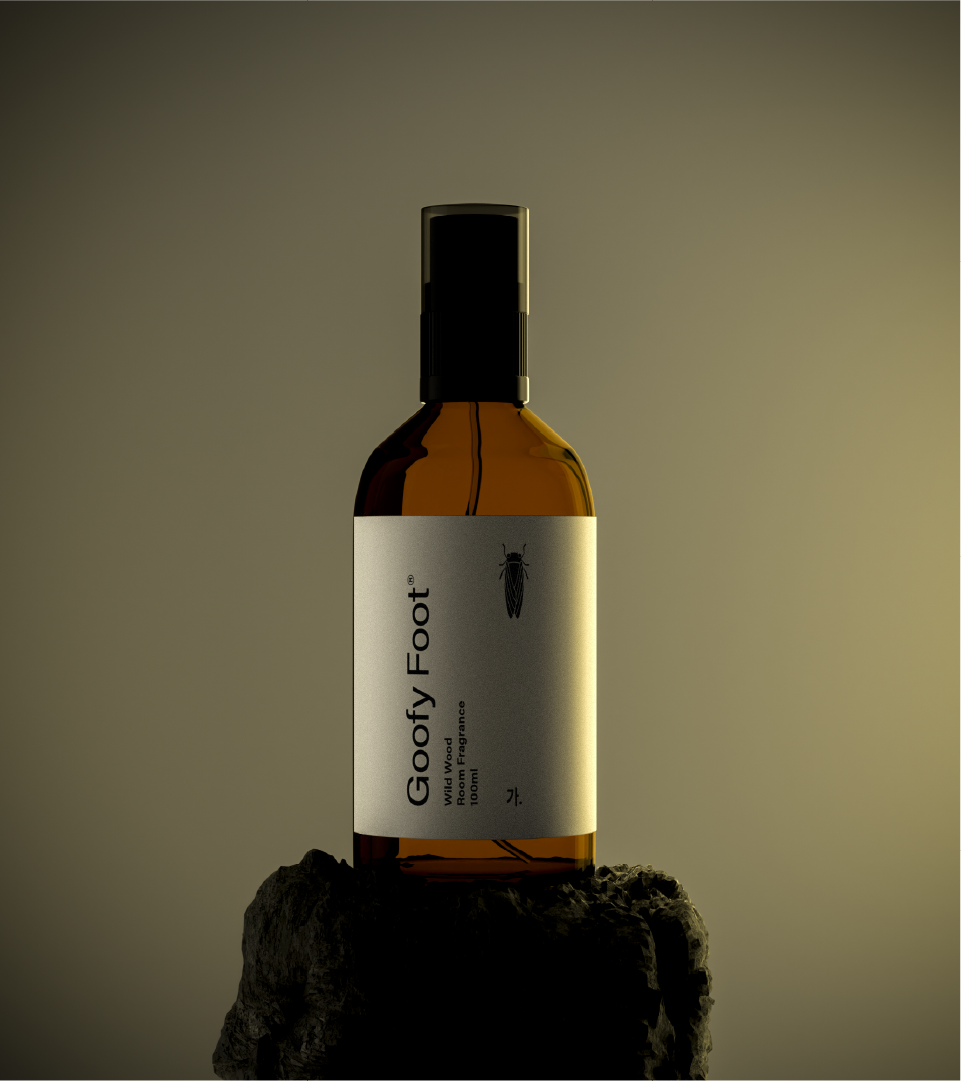
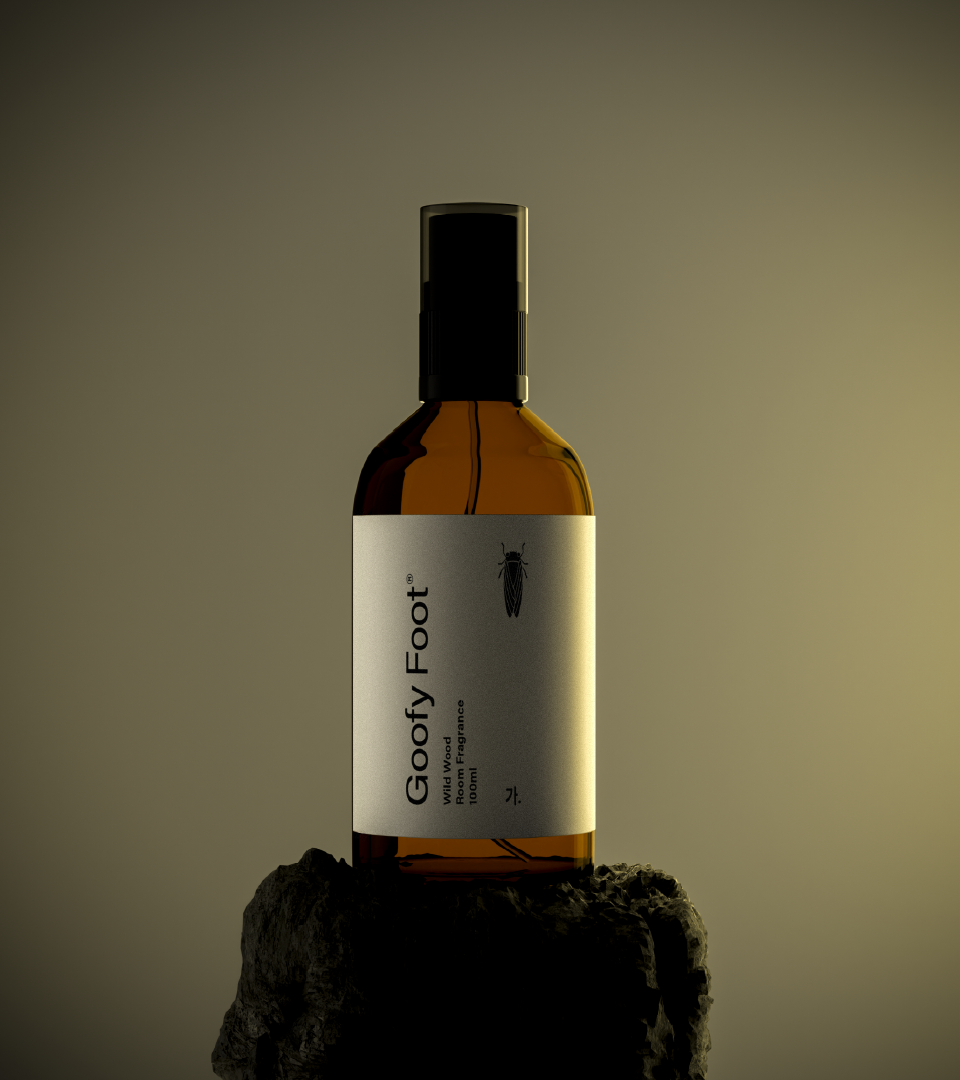
✨ Ensure Section 3 product images completely fill the box without gaps or edge transparency

Changed region(s): [[0.5312, 0.275, 0.5625, 0.3667], [0.4062, 0.7028, 0.4375, 0.7333]]

diff --git a/WEB/index.html b/WEB/index.html
@@ -13,8 +13,8 @@
     <link rel="stylesheet"
         href="https://cdn.jsdelivr.net/gh/orioncactus/pretendard@v1.3.9/dist/web/variable/pretendardvariable.css" />
 
-    <!-- Cache buster v136 -->
-    <link rel="stylesheet" href="style.css?v=136">
+    <!-- Cache buster v137 -->
+    <link rel="stylesheet" href="style.css?v=137">
 </head>
 
 <body>
@@ -83,19 +83,19 @@
                 <div class="product-explain-visual" id="product-visual-stack">
                     <div class="product-vertical-image-stack" id="product-image-stack">
                         <div class="product-stack-item">
-                            <img src="images/spr%201.png" alt="Goofy Foot Room Spray Angle 1" class="vertical-stack-img" loading="eager">
+                            <img src="images/spr%201.png?v=2" alt="Goofy Foot Room Spray Angle 1" class="vertical-stack-img" loading="eager">
                         </div>
                         <div class="product-stack-item">
-                            <img src="images/spr%202.png" alt="Goofy Foot Room Spray Angle 2" class="vertical-stack-img" loading="lazy">
+                            <img src="images/spr%202.png?v=2" alt="Goofy Foot Room Spray Angle 2" class="vertical-stack-img" loading="lazy">
                         </div>
                         <div class="product-stack-item">
-                            <img src="images/spr%203.png" alt="Goofy Foot Room Spray Angle 3" class="vertical-stack-img" loading="lazy">
+                            <img src="images/spr%203.png?v=2" alt="Goofy Foot Room Spray Angle 3" class="vertical-stack-img" loading="lazy">
                         </div>
                         <div class="product-stack-item">
-                            <img src="images/spr%204.png" alt="Goofy Foot Room Spray Angle 4" class="vertical-stack-img" loading="lazy">
+                            <img src="images/spr%204.png?v=2" alt="Goofy Foot Room Spray Angle 4" class="vertical-stack-img" loading="lazy">
                         </div>
                         <div class="product-stack-item">
-                            <img src="images/spr%205.png" alt="Goofy Foot Room Spray Angle 5" class="vertical-stack-img" loading="lazy">
+                            <img src="images/spr%205.png?v=2" alt="Goofy Foot Room Spray Angle 5" class="vertical-stack-img" loading="lazy">
                         </div>
                     </div>
                 </div>
@@ -299,7 +299,7 @@
         <div class="cicada-fab-sprite"></div>
     </a>
 
-    <script src="main.js?v=136"></script>
+    <script src="main.js?v=137"></script>
 </body>
 
 </html>

diff --git a/index.html b/index.html
@@ -13,8 +13,8 @@
     <link rel="stylesheet"
         href="https://cdn.jsdelivr.net/gh/orioncactus/pretendard@v1.3.9/dist/web/variable/pretendardvariable.css" />
 
-    <!-- Cache buster v136 -->
-    <link rel="stylesheet" href="style.css?v=136">
+    <!-- Cache buster v137 -->
+    <link rel="stylesheet" href="style.css?v=137">
 </head>
 
 <body>
@@ -83,19 +83,19 @@
                 <div class="product-explain-visual" id="product-visual-stack">
                     <div class="product-vertical-image-stack" id="product-image-stack">
                         <div class="product-stack-item">
-                            <img src="images/spr%201.png" alt="Goofy Foot Room Spray Angle 1" class="vertical-stack-img" loading="eager">
+                            <img src="images/spr%201.png?v=2" alt="Goofy Foot Room Spray Angle 1" class="vertical-stack-img" loading="eager">
                         </div>
                         <div class="product-stack-item">
-                            <img src="images/spr%202.png" alt="Goofy Foot Room Spray Angle 2" class="vertical-stack-img" loading="lazy">
+                            <img src="images/spr%202.png?v=2" alt="Goofy Foot Room Spray Angle 2" class="vertical-stack-img" loading="lazy">
                         </div>
                         <div class="product-stack-item">
-                            <img src="images/spr%203.png" alt="Goofy Foot Room Spray Angle 3" class="vertical-stack-img" loading="lazy">
+                            <img src="images/spr%203.png?v=2" alt="Goofy Foot Room Spray Angle 3" class="vertical-stack-img" loading="lazy">
                         </div>
                         <div class="product-stack-item">
-                            <img src="images/spr%204.png" alt="Goofy Foot Room Spray Angle 4" class="vertical-stack-img" loading="lazy">
+                            <img src="images/spr%204.png?v=2" alt="Goofy Foot Room Spray Angle 4" class="vertical-stack-img" loading="lazy">
                         </div>
                         <div class="product-stack-item">
-                            <img src="images/spr%205.png" alt="Goofy Foot Room Spray Angle 5" class="vertical-stack-img" loading="lazy">
+                            <img src="images/spr%205.png?v=2" alt="Goofy Foot Room Spray Angle 5" class="vertical-stack-img" loading="lazy">
                         </div>
                     </div>
                 </div>
@@ -299,7 +299,7 @@
         <div class="cicada-fab-sprite"></div>
     </a>
 
-    <script src="main.js?v=136"></script>
+    <script src="main.js?v=137"></script>
 </body>
 
 </html>

diff --git a/WEB/style.css b/WEB/style.css
@@ -272,19 +272,25 @@ button,
   padding: 0 !important;
   margin: 0 !important;
   box-sizing: border-box;
+  overflow: hidden;
 }
 
 .product-vertical-image-stack {
   width: 100%;
   display: flex;
   flex-direction: column;
+  margin: 0;
+  padding: 0;
 }
 
 .product-stack-item {
   width: 100%;
-  display: flex;
-  align-items: center;
-  justify-content: center;
+  display: block;
+  margin: 0;
+  padding: 0;
+  line-height: 0;
+  font-size: 0;
+  overflow: hidden;
   background: #FFFFFF;
 }
 
@@ -913,7 +919,7 @@ button,
     height: auto !important;
     min-height: auto !important;
     max-height: none !important;
-    aspect-ratio: 961 / 1081 !important;
+    aspect-ratio: 960 / 1080 !important;
     border-right: none !important;
     border-bottom: 1px solid #000000 !important;
     padding: 0 !important;
@@ -925,7 +931,7 @@ button,
   .product-vertical-image-stack {
     width: 100% !important;
     height: 100% !important;
-    aspect-ratio: 961 / 1081 !important;
+    aspect-ratio: 960 / 1080 !important;
     display: flex !important;
     flex-direction: row !important;
     overflow-x: auto !important;
@@ -949,13 +955,16 @@ button,
     scroll-snap-align: center !important;
     scroll-snap-stop: always !important;
     background: #FFFFFF !important;
+    margin: 0 !important;
+    padding: 0 !important;
+    line-height: 0 !important;
   }
 
   .vertical-stack-img {
     width: 100% !important;
     height: 100% !important;
-    aspect-ratio: 961 / 1081 !important;
-    object-fit: contain !important;
+    aspect-ratio: 960 / 1080 !important;
+    object-fit: cover !important;
     display: block !important;
   }
 

diff --git a/style.css b/style.css
@@ -272,19 +272,25 @@ button,
   padding: 0 !important;
   margin: 0 !important;
   box-sizing: border-box;
+  overflow: hidden;
 }
 
 .product-vertical-image-stack {
   width: 100%;
   display: flex;
   flex-direction: column;
+  margin: 0;
+  padding: 0;
 }
 
 .product-stack-item {
   width: 100%;
-  display: flex;
-  align-items: center;
-  justify-content: center;
+  display: block;
+  margin: 0;
+  padding: 0;
+  line-height: 0;
+  font-size: 0;
+  overflow: hidden;
   background: #FFFFFF;
 }
 
@@ -913,7 +919,7 @@ button,
     height: auto !important;
     min-height: auto !important;
     max-height: none !important;
-    aspect-ratio: 961 / 1081 !important;
+    aspect-ratio: 960 / 1080 !important;
     border-right: none !important;
     border-bottom: 1px solid #000000 !important;
     padding: 0 !important;
@@ -925,7 +931,7 @@ button,
   .product-vertical-image-stack {
     width: 100% !important;
     height: 100% !important;
-    aspect-ratio: 961 / 1081 !important;
+    aspect-ratio: 960 / 1080 !important;
     display: flex !important;
     flex-direction: row !important;
     overflow-x: auto !important;
@@ -949,13 +955,16 @@ button,
     scroll-snap-align: center !important;
     scroll-snap-stop: always !important;
     background: #FFFFFF !important;
+    margin: 0 !important;
+    padding: 0 !important;
+    line-height: 0 !important;
   }
 
   .vertical-stack-img {
     width: 100% !important;
     height: 100% !important;
-    aspect-ratio: 961 / 1081 !important;
-    object-fit: contain !important;
+    aspect-ratio: 960 / 1080 !important;
+    object-fit: cover !important;
     display: block !important;
   }
 
